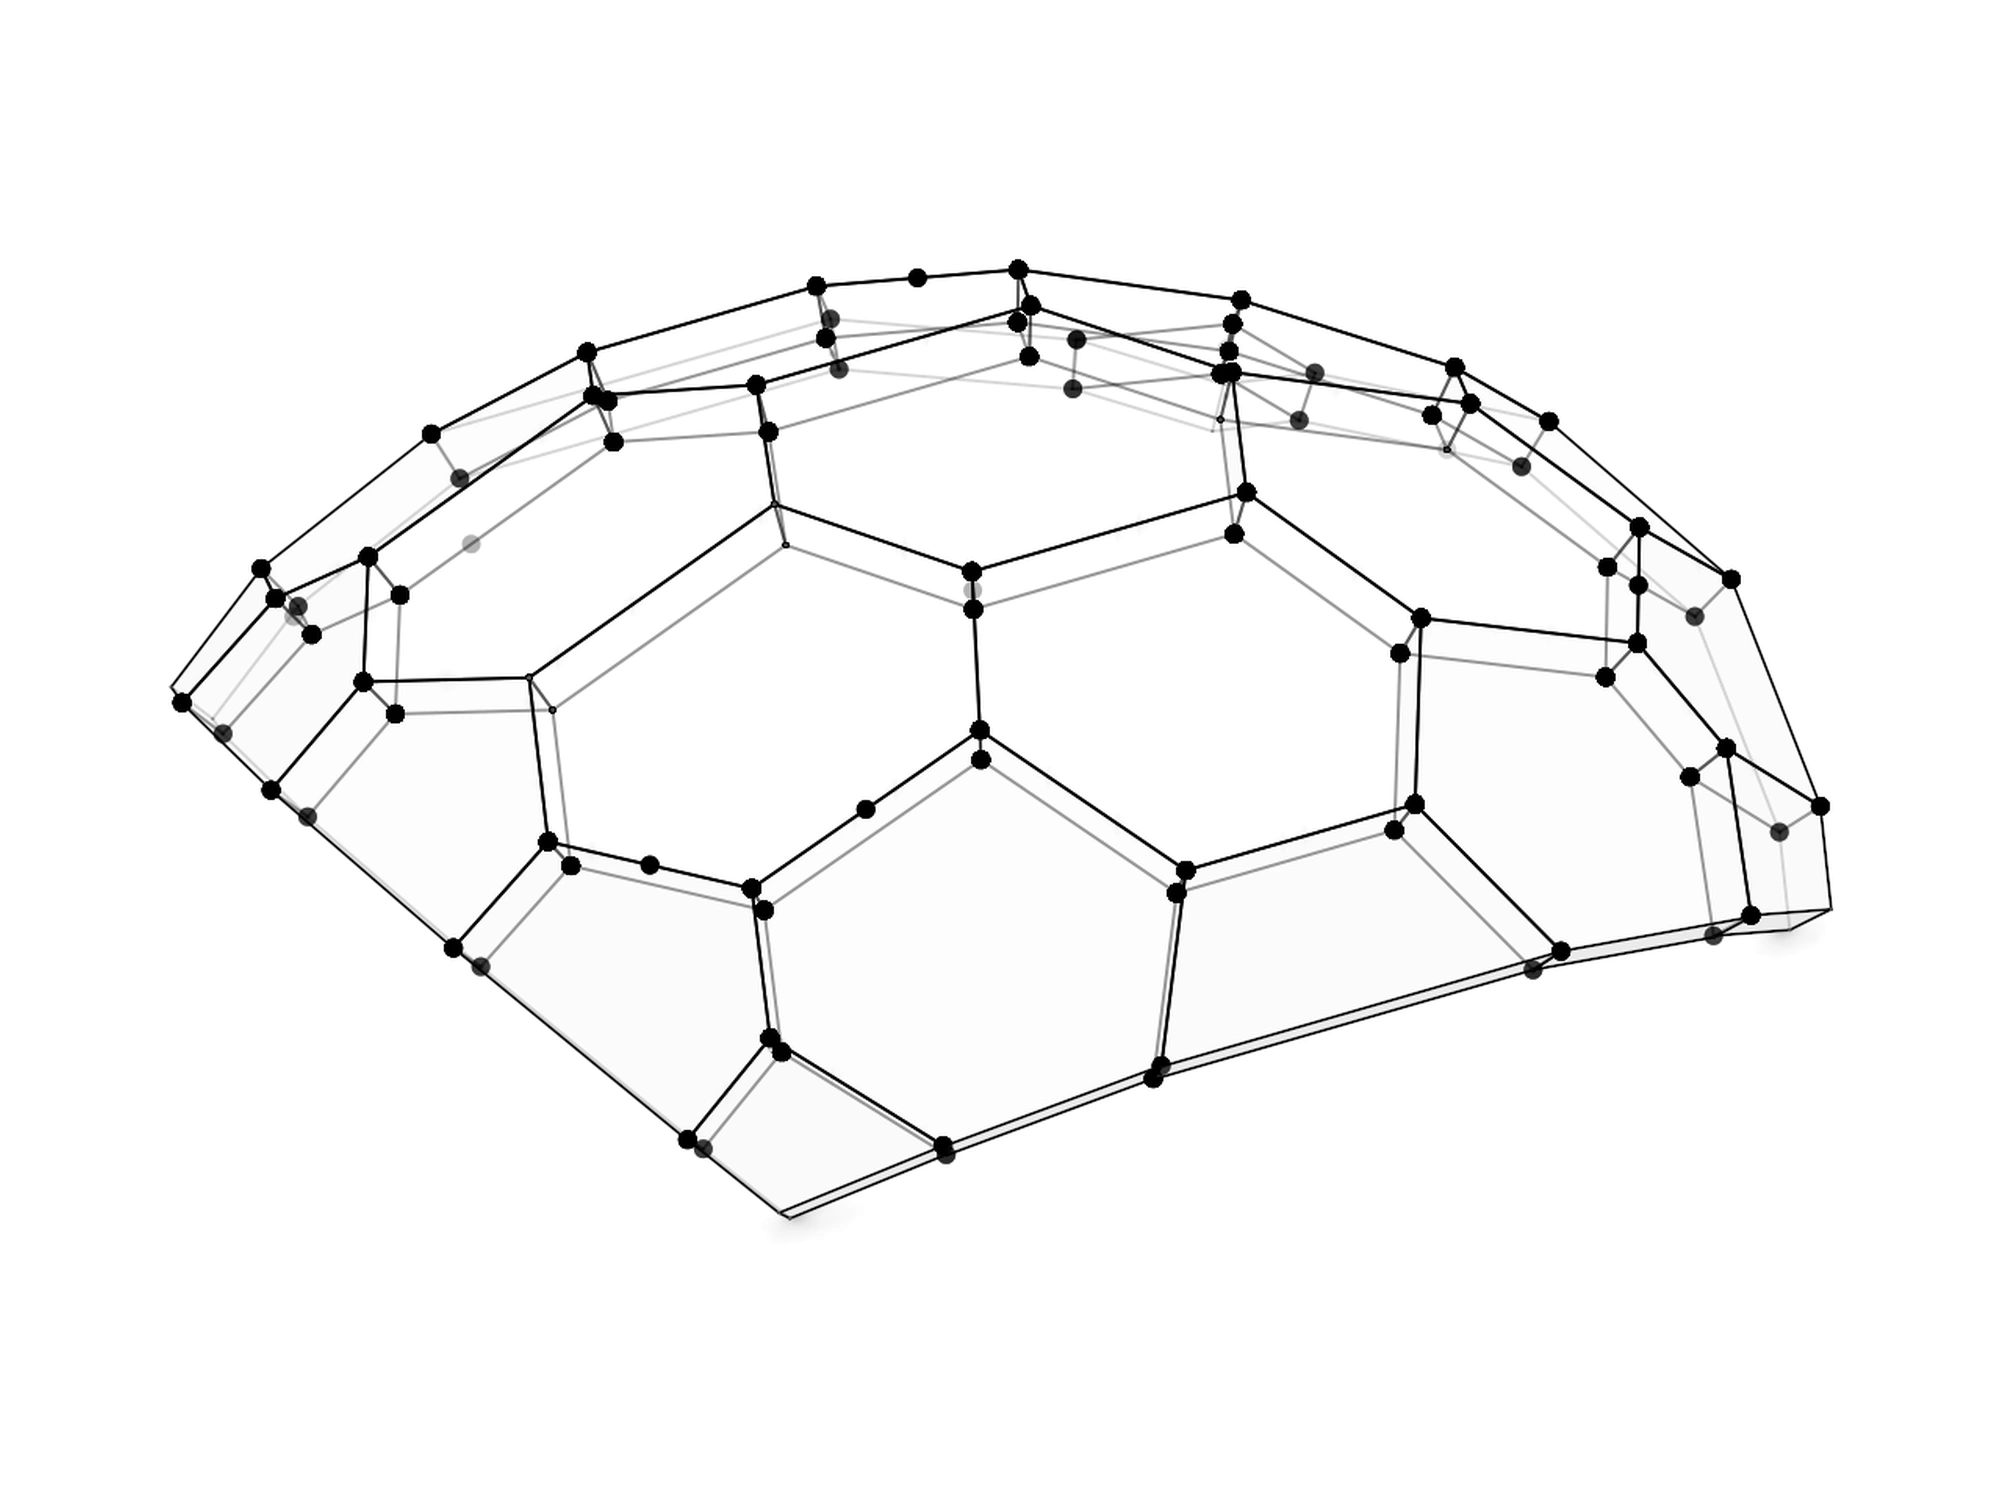
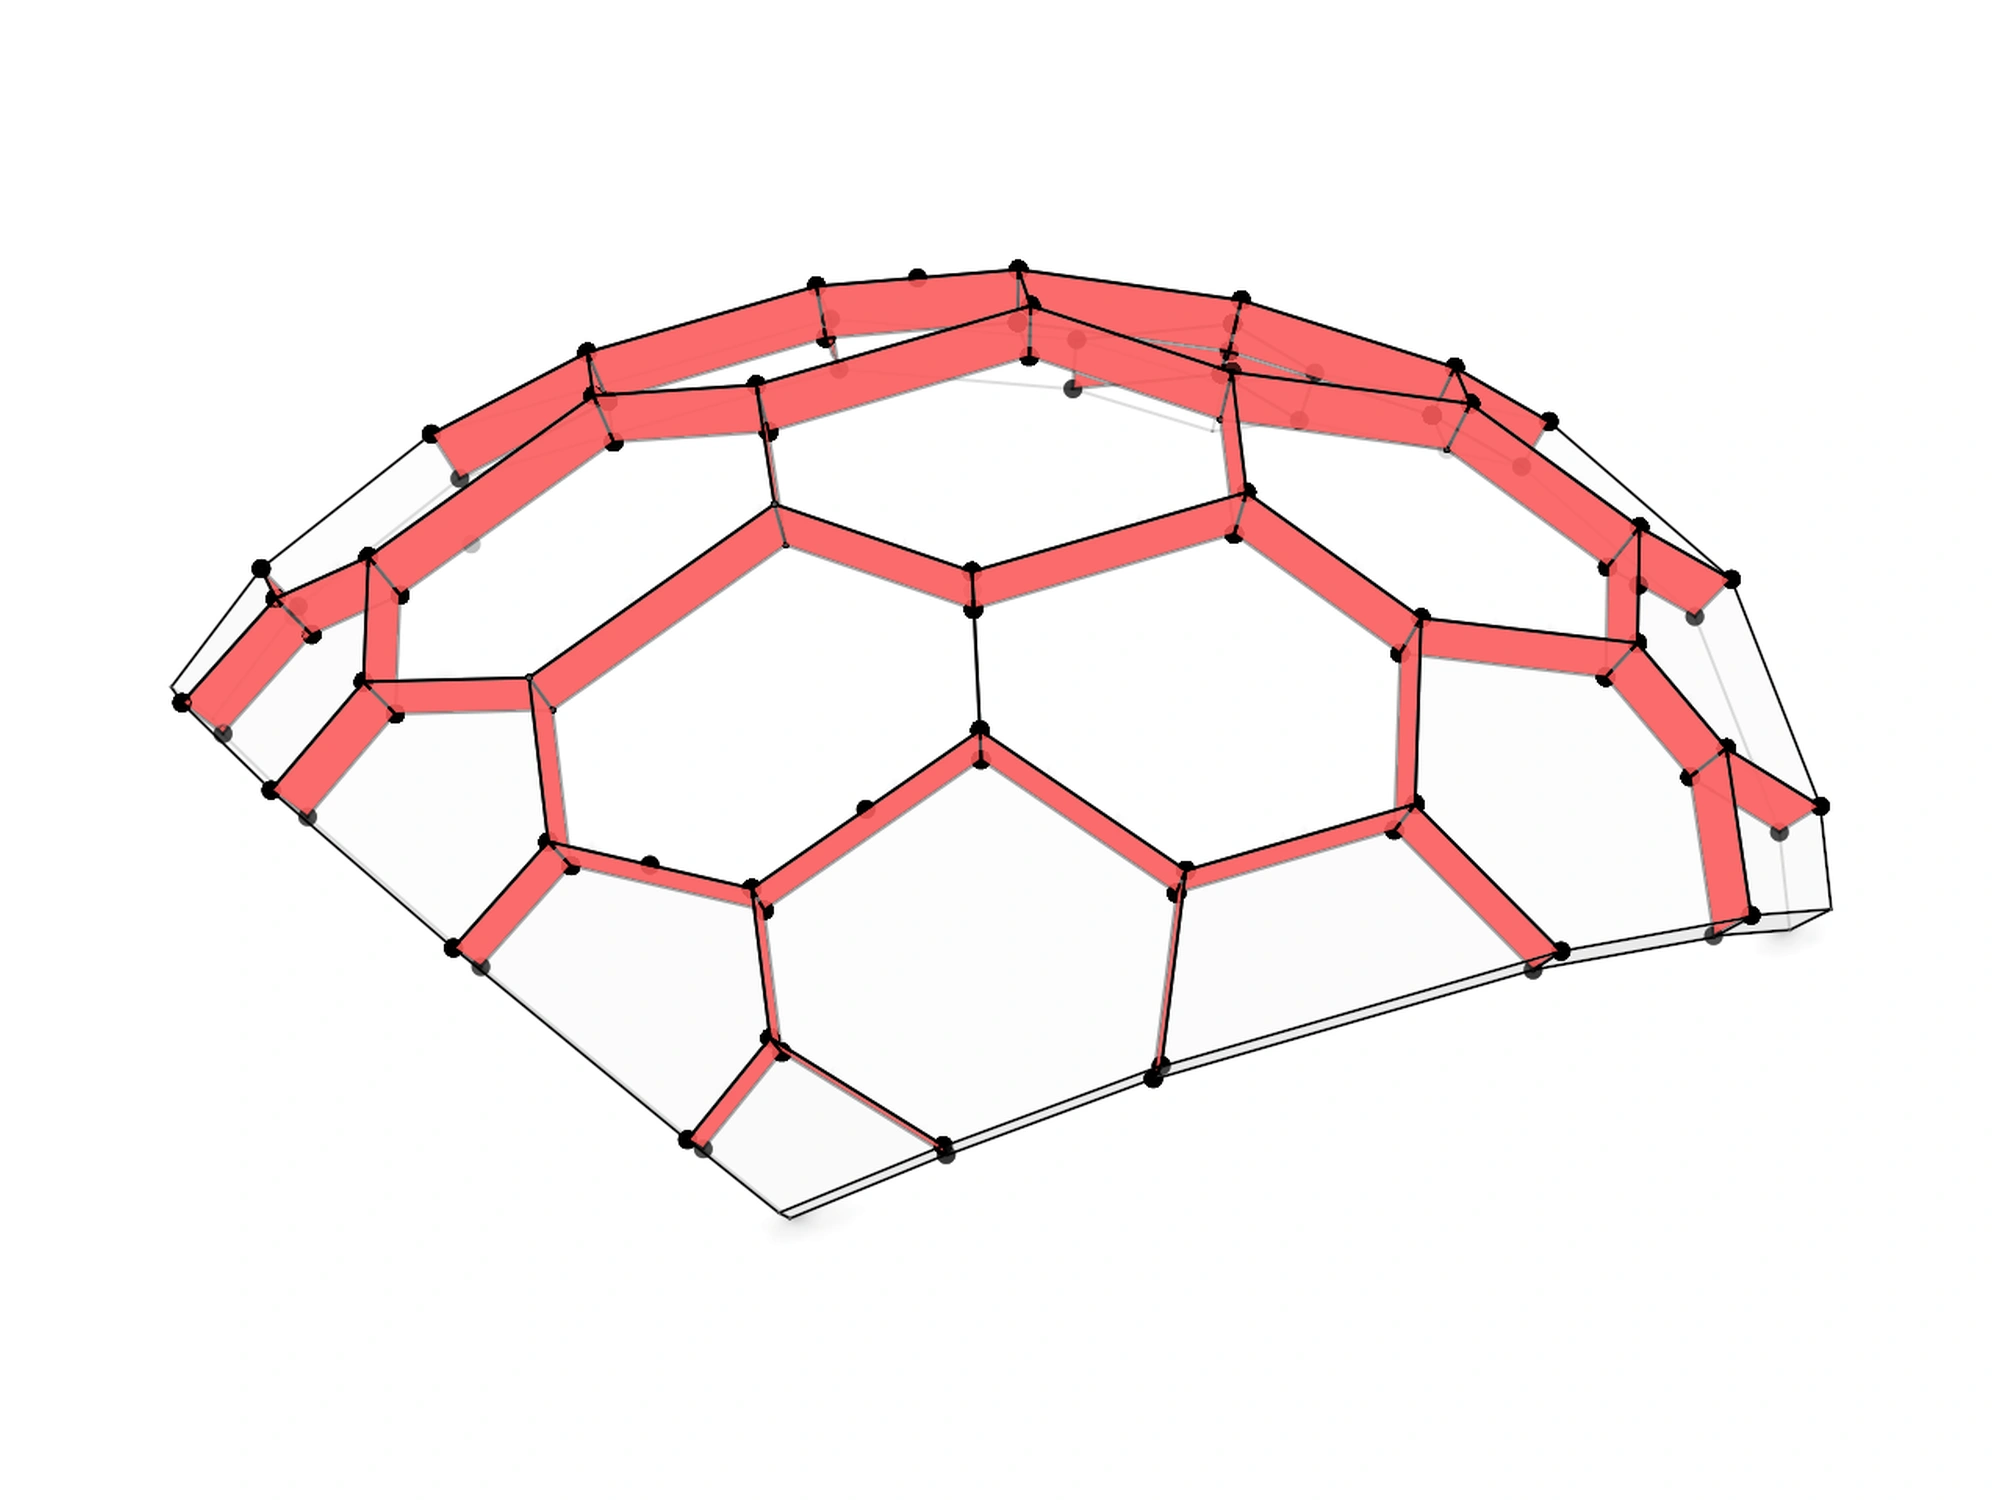
Render contact face mesh fills in red on Session Contacts, Contacts, and Cross Joints

Changed region(s): [[0.093, 0.184, 0.899, 0.7667], [0.434, 0.736, 0.465, 0.7667], [0.434, 0.5213, 0.465, 0.552]]

diff --git a/examples/1_session_contacts.cpp b/examples/1_session_contacts.cpp
@@ -81,5 +81,5 @@ cmake -S . -B build -DCMAKE_BUILD_TYPE=Release
 cmake --build build --target 1_session_contacts --parallel 4 && ./build/1_session_contacts && ../bash/publish-scene.sh --target 1_session_contacts
 
 |||||||| VIEW ||||||||
-https://petrasvestartas.github.io/session/
+https://petrasvestartas.github.io/session/?cmd=Arctic%20On;View%20Xray;View%20Isometric;Fit
 */

diff --git a/examples/2_contacts.cpp b/examples/2_contacts.cpp
@@ -82,5 +82,5 @@ cmake -S . -B build -DCMAKE_BUILD_TYPE=Release
 cmake --build build --target 2_contacts --parallel 4 && ./build/2_contacts && ../bash/publish-scene.sh --target 2_contacts
 
 |||||||| VIEW ||||||||
-https://petrasvestartas.github.io/session/
+https://petrasvestartas.github.io/session/?cmd=Arctic%20On;View%20Xray;View%20Isometric;Fit
 */
